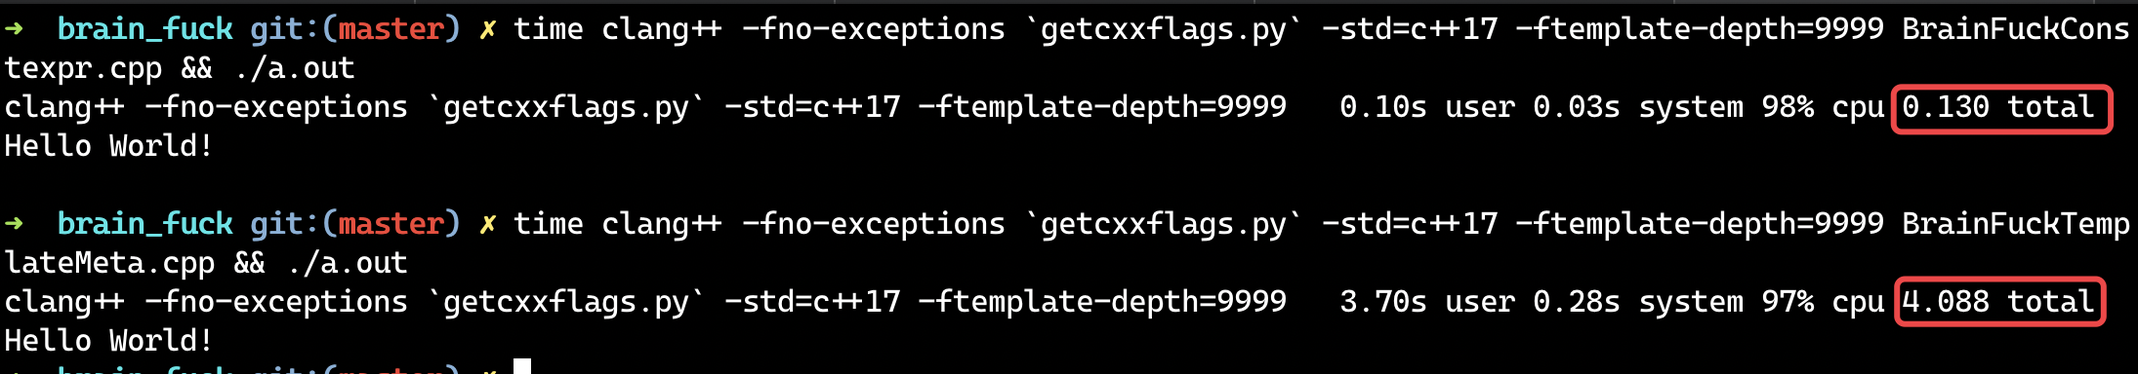
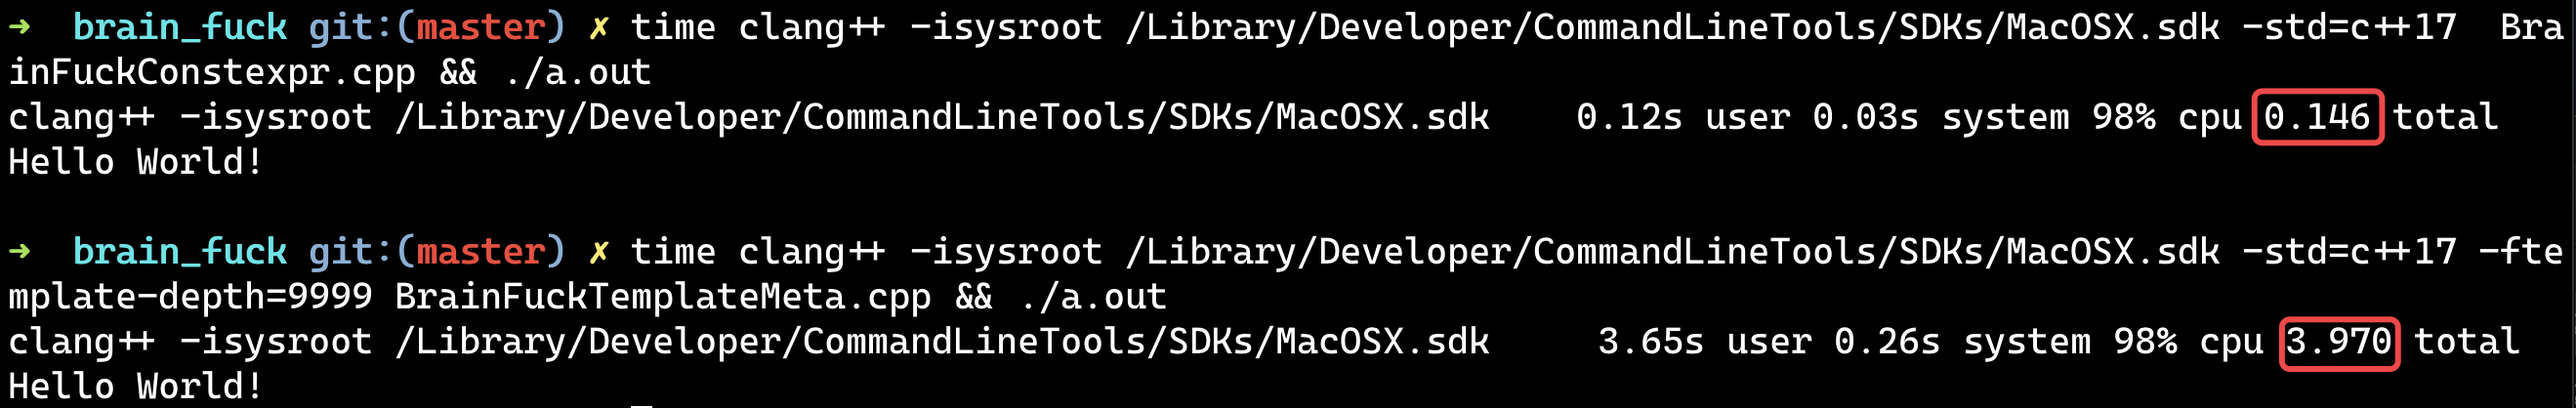
update: constexpr_from_11_20

diff --git a/constexpr_from_11_20/index.html b/constexpr_from_11_20/index.html
@@ -1,4 +1,4 @@
-<!DOCTYPE html><html lang="en"><head><meta charset="utf-8"><meta name="viewport" content="width=device-width, initial-scale=1.0, maximum-scale=1.0, user-scalable=no, minimal-ui"><title>CONSTEXPR 从 11 到 20</title><meta name="author" content="Netcan 2020-11-10 @Shanghai"><link rel="stylesheet" href="../node_modules/reveal.js/css/reset.css"><link rel="stylesheet" href="../node_modules/reveal.js/css/reveal.css"><link rel="stylesheet" href="../node_modules/reveal.js/css/theme/serif.css" id="theme"><!--This CSS is generated by the Asciidoctor reveal.js converter to further integrate AsciiDoc's existing semantic with reveal.js--><style type="text/css">.reveal div.right{float:right}
+<!DOCTYPE html><html lang="en"><head><meta charset="utf-8"><meta name="viewport" content="width=device-width, initial-scale=1.0, maximum-scale=1.0, user-scalable=no, minimal-ui"><title>CONSTEXPR 从 11 到 20</title><meta name="author" content="Netcan 2020-11-11 @Shanghai"><link rel="stylesheet" href="../node_modules/reveal.js/css/reset.css"><link rel="stylesheet" href="../node_modules/reveal.js/css/reveal.css"><link rel="stylesheet" href="../node_modules/reveal.js/css/theme/serif.css" id="theme"><!--This CSS is generated by the Asciidoctor reveal.js converter to further integrate AsciiDoc's existing semantic with reveal.js--><style type="text/css">.reveal div.right{float:right}
 
 /* listing block */
 .reveal .listingblock.stretch>.content{height: 100%}
@@ -156,7 +156,7 @@ link.type = 'text/css';
 link.href = window.location.search.match( /print-pdf/gi ) ? "../node_modules/reveal.js/css/print/pdf.css" : "../node_modules/reveal.js/css/print/paper.css";
 document.getElementsByTagName( 'head' )[0].appendChild( link );</script><link rel="stylesheet" href="../presentation.css"></head><body><div class="reveal"><div class="slides"><section class="title" data-state="title"><h1>CONSTEXPR 从 11 到 20</h1><div class="preamble"><div class="paragraph"><p><span class="subtitle">constexpr auto 😀</span></p></div>
 <div class="paragraph"><p>template metaprogramming is dead<br>
-long live constexpr</p></div></div><p class="author"><small>Netcan 2020-11-10 @Shanghai</small></p></section>
+long live constexpr</p></div></div><p class="author"><small>Netcan 2020-11-11 @Shanghai</small></p></section>
 <section id="_自我介绍"><h2>自我介绍</h2><div class="slide-content"><div class="ulist"><ul><li><p>96年出生，18年毕业于合肥工业大学本科</p></li><li><p>高级工程师</p></li><li><p>知乎 <a href="https://www.zhihu.com/column/c_1289690410462785536">《魅力C++》</a> 专栏作者</p></li><li><p>兴趣：CS, OO, FP, Design, Coding, Writing</p></li><li><p>Skills: C/C++/Rust, Haskell/Scheme, Bash/Python/Javascript/PHP</p></li></ul></div></div></section>
 <section id="_议程"><h2>议程</h2><div class="slide-content"><div class="ulist"><ul><li><p>编译时计算（元编程）</p></li><li><p>演进历史</p></li><li><p>constexpr vs 模板元</p></li><li><p>深入constexpr</p></li><li><p>应用</p></li><li><p>展望未来</p></li><li><p>结论</p></li></ul></div></div></section>
 <section><section id="_编译时计算元编程"><h2>编译时计算（元编程）</h2><div class="slide-content"><div class="ulist"><ul><li><p>零成本抽象</p></li><li><p>编译时多态 (eg. Policy Class, Tag Dispatcher, CRTP)</p></li><li><p>值计算</p></li><li><p>类型计算(Type Traits)</p></li><li><p>类型安全 (eg. 单位运算, Phantom Types)</p></li><li><p>内部领域特定语言(EDSL)</p></li></ul></div></div></section><section id="_编译时计算元编程_风格"><h2>编译时计算（元编程）&amp; 风格</h2><div class="slide-content"><div class="ulist"><ul><li><p>模板元编程</p></li><li><p>Constexpr all the things!</p></li><li><p>两者结合</p></li></ul></div></div></section></section>
@@ -354,7 +354,7 @@ constexpr auto res = BRAIN_FUCK(R"(
     &gt;---.+++++++..+++.&gt;&gt;.&lt;-.&lt;.+++.------.--------.&gt;&gt;+.&gt;++.
 )");</code></pre></div></div></div></section></section>
 <section><section id="_constexpr_vs_模板元编程_2"><h2>constexpr vs 模板元编程</h2><div class="slide-content"><div class="paragraph"><p><span class="icon orange"><i class="fa fa-question"></i></span>
-编译时间</p></div><div class="imageblock" style=""><img src="brain_fuck_perf.png" alt="brain fuck perf"></div><div class="paragraph"><p>0.13s vs 4.088s ! 30x speed up <span class="icon red"><i class="fa fa-angle-double-up"></i></span></p></div></div></section><section id="_constexpr_vs_模板元编程_3"><h2>constexpr vs 模板元编程</h2><div class="slide-content"><div class="paragraph"><p>模板元 <a href="http://redd.it/jnz5p1">http://redd.it/jnz5p1</a></p></div>
+编译时间</p></div><div class="imageblock" style=""><img src="brain_fuck_perf.png" alt="brain fuck perf"></div><div class="paragraph"><p>0.146s vs 3.970s ! 27x speed up <span class="icon red"><i class="fa fa-angle-double-up"></i></span></p></div></div></section><section id="_constexpr_vs_模板元编程_3"><h2>constexpr vs 模板元编程</h2><div class="slide-content"><div class="paragraph"><p>模板元 <a href="http://redd.it/jnz5p1">http://redd.it/jnz5p1</a></p></div>
 <div class="ulist"><ul><li><p>Looks both <strong>scary</strong> and <strong>exciting</strong> at the same time. :P</p></li><li><p>After reading this code I gotta <strong>remove C++</strong> from the programming languages I know list.  Sweet mother of god this is <strong>incredible</strong>! :,)</p></li><li><p>Nice, definitely <strong>scary</strong> stuff though.</p></li><li><p>Where does one learn to use templates like that? I have no idea what I&#8217;m looking at</p></li><li><p>From my experience, templates like this are <strong>hard to casually read</strong> even if you are the one who wrote them. It makes perfect sense when you are <strong>creating the monstrosity</strong> though.</p></li><li><p>Actually, for what it is, it&#8217;s incredibly <strong>readable</strong>.</p></li><li><p>Awesome, Now make a c++ compiler with brainfuck :p</p></li></ul></div>
 <div class="paragraph"><p>constexpr <a href="http://redd.it/jp7k0u">http://redd.it/jp7k0u</a></p></div>
 <div class="ulist"><ul><li><p>Amazing, very neat, show the <strong>power</strong> of constexpr functions, way more <strong>readable</strong> than template.</p></li><li><p>Wow. Your constexpr code is vastly more <strong>readable</strong> than the template metaprogramming one.</p></li></ul></div></div></section><section id="_constexpr_vs_模板元编程_4" class="columns"><h2>constexpr vs 模板元编程</h2><div class="slide-content"><div class="openblock column"><div class="content"><div class="paragraph"><p>简单设计：模板元</p></div>
@@ -366,7 +366,7 @@ constexpr auto res = BRAIN_FUCK(R"(
 <div class="openblock column"><div class="content"><div class="paragraph"><p>constexpr优缺点</p></div>
 <div class="ulist"><ul><li><p>运行时效率</p></li><li><p>新兴势力，生态待完善<br>
 参考资料少，挖掘空间大</p></li><li><p>C++20之前需要提前计算容器大小</p></li><li><p>可读性强，维护性强，更少的魔法</p></li><li><p>编译错误信息易懂；编译速度快；跨平台（编译器）强</p></li></ul></div></div></div></div></section></section>
-<section id="_constexpr_all_the_things"><h2>Constexpr all the things!</h2><div class="slide-content"><div class="imageblock" style=""><img src="constexpr-all-the-things.png" alt="80%" width="80%"></div></div></section>
+<section id="_constexpr_all_the_things"><h2>Constexpr all the things!</h2><div class="slide-content"><div class="imageblock" style=""><img src="constexpr-all-the-things.png" alt="80%" width="60%"></div></div></section>
 <section id="_constexpr历程"><h2>constexpr历程</h2><div class="slide-content"><div class="ulist"><ul><li><p>C++11 引入constexpr简单函数</p><div class="ulist"><ul><li><p>只允许一条return语句</p></li><li><p>递归解决问题！简单的数学函数、字符串hash函数</p></li></ul></div></li><li><p>C++14 放开constexpr约束, 模板变量</p><div class="ulist"><ul><li><p>泛化constexpr</p></li><li><p>一些库出现</p></li></ul></div></li><li><p>C++17 if constexpr、constexpr lambda、折叠表达式</p><div class="ulist"><ul><li><p>表达力提升</p></li></ul></div></li><li><p>C++20 constexpr容器、constexpr new、constexpr析构函数、constexpr虚函数、consteval/constinit、lambda模板参数</p></li><li><p>constexpr STL algorithms</p></li></ul></div></div></section>
 <section><section id="_深入constexpr"><h2>深入constexpr</h2><div class="slide-content"><div class="ulist"><ul><li><p>constexpr常量</p></li><li><p>折叠表达式</p></li><li><p>constexpr函数、lambda</p></li><li><p>consteval/constinit</p></li><li><p>if constexpr</p></li><li><p>constexpr容器、算法</p></li><li><p>constexpr析构函数</p></li><li><p>检测Undefined Behaviour</p></li></ul></div></div></section><section id="_constexpr常量"><h2>constexpr常量</h2><div class="slide-content"><div class="listingblock"><div class="content"><pre class="highlightjs highlight"><code data-lang="cpp" class="language-cpp hljs" data-noescape="true">constexpr size_t strLen(const char* str) {
     return (*str == '\0') ? 0 : 1 + strLen(str + 1);
@@ -694,7 +694,38 @@ constexpr static auto root_nodes =
     | holo::transform([](auto elem){
         return holo::type_c&lt;typename decltype(elem)::type::node_type&gt;;
     });</code></pre></div></div></div></section></section>
-<section id="_reference"><h2>Reference</h2><div class="slide-content"><div class="ulist"><ul><li><p><a href="http://odinthenerd.blogspot.com/2014/07/introduction-to-c-metaprogramming-part-1.html">Introduction to C++ Metaprogramming</a></p></li><li><p><a href="https://www.youtube.com/watch?v=A3_xrqr5Kdw">C Weekly - Ep 231 - Multiple Destructors in C20?! How and Why</a></p></li><li><p><a href="https://github.com/trailofbits/constexpr-everything">https://github.com/trailofbits/constexpr-everything</a></p></li><li><p><a href="https://shafik.github.io/c++/undefined%20behavior/2019/05/11/explporing_undefined_behavior_using_constexpr.html">Exploring Undefined Behavior Using Constexpr</a></p></li><li><p><a href="https://www.youtube.com/watch?v=PJwd4JLYJJY">CppCon 2017: Ben Deane &amp; Jason Turner “constexpr ALL the Things!”</a></p></li></ul></div></div></section></div></div><script src="../node_modules/reveal.js/js/reveal.js"></script><script>Array.prototype.slice.call(document.querySelectorAll('.slides section')).forEach(function(slide) {
+<section><section id="_展望未来"><h2>展望未来</h2><div class="slide-content"><div class="ulist"><ul><li><p>constexpr_trace/constexpr_assert</p></li><li><p>for constexpr &amp; 静态反射</p></li></ul></div></div></section><section id="_constexpr_traceconstexpr_assert"><h2>constexpr_trace/constexpr_assert</h2><div class="slide-content"><div class="paragraph"><p><a href="http://www.open-std.org/jtc1/sc22/wg21/docs/papers/2017/p0596r0.html">P0596</a></p></div>
+<div class="listingblock"><div class="content"><pre class="highlightjs highlight"><code data-lang="cpp" class="language-cpp hljs" data-noescape="true">constexpr int sqr(int n) {
+  if (n &gt; 100) {
+    std::constexpr_report("Largish sqr operand", n);
+  }
+  return n*n;
+}
+constexpr int n1 = sqr(128); <i class="conum" data-value="1"></i><b>(1)</b>
+int x = 1000;
+int n2 = sqr(x);  <i class="conum" data-value="2"></i><b>(2)</b></code></pre></div></div>
+<div class="colist arabic"><table><tr><td><i class="conum" data-value="1"></i><b>1</b></td><td>Some kind of output, ideally.</td></tr><tr><td><i class="conum" data-value="2"></i><b>2</b></td><td>No diagnostic output.</td></tr></table></div></div></section><section id="_for_constexpr_静态反射"><h2>for constexpr &amp; 静态反射</h2><div class="slide-content"><div class="paragraph"><p><a href="https://twitter.com/cor3ntin/status/1127210941718962177">https://twitter.com/cor3ntin/status/1127210941718962177</a><br>
+<a href="https://wg21.link/p1306">P1306R1: Expansion statements</a></p></div>
+<div class="listingblock"><div class="content"><pre class="highlightjs highlight"><code data-lang="cpp" class="language-cpp hljs" data-noescape="true">#include &lt;iostream&gt;
+#include &lt;experimental/meta&gt;
+
+namespace meta = std::experimental::meta;
+
+namespace n {
+    struct hello {};
+    int world;
+};
+
+int main() {
+    static constexpr auto range = meta::range(reflexpr(n));
+    for...(constexpr auto member: range)
+        std::cout &lt;&lt; meta::name_of(member) &lt;&lt; " ";
+    return 0;
+}</code></pre></div></div></div></section></section>
+<section id="_结论"><h2>结论</h2><div class="slide-content"><div class="ulist"><ul><li><p>简化库、框架开发难度</p></li><li><p>更清晰的代码，更少的魔法</p></li><li><p>跨编译器兼容</p></li><li><p>更容易实现领域特定语言EDSL</p></li></ul></div></div></section>
+<section id="_reference"><h2>Reference</h2><div class="slide-content"><div class="ulist"><ul><li><p><a href="http://odinthenerd.blogspot.com/2014/07/introduction-to-c-metaprogramming-part-1.html">Introduction to C++ Metaprogramming</a></p></li><li><p><a href="https://www.youtube.com/watch?v=A3_xrqr5Kdw">C++ Weekly - Ep 231 - Multiple Destructors in C++20?! How and Why</a></p></li><li><p><a href="https://shafik.github.io/c++/undefined%20behavior/2019/05/11/explporing_undefined_behavior_using_constexpr.html">Exploring Undefined Behavior Using Constexpr</a></p></li><li><p><a href="https://www.youtube.com/watch?v=PJwd4JLYJJY">CppCon 2017: Ben Deane &amp; Jason Turner “constexpr ALL the Things!”</a></p></li></ul></div></div></section>
+<section id="_thank_you" data-state="thank"><h2>Thank you!</h2></section>
+<section id="_question" data-state="thank"><h2>Question?</h2></section></div></div><script src="../node_modules/reveal.js/js/reveal.js"></script><script>Array.prototype.slice.call(document.querySelectorAll('.slides section')).forEach(function(slide) {
   if (slide.getAttribute('data-background-color')) return;
   // user needs to explicitly say he wants CSS color to override otherwise we might break custom css or theme (#226)
   if (!(slide.classList.contains('canvas') || slide.classList.contains('background'))) return;
